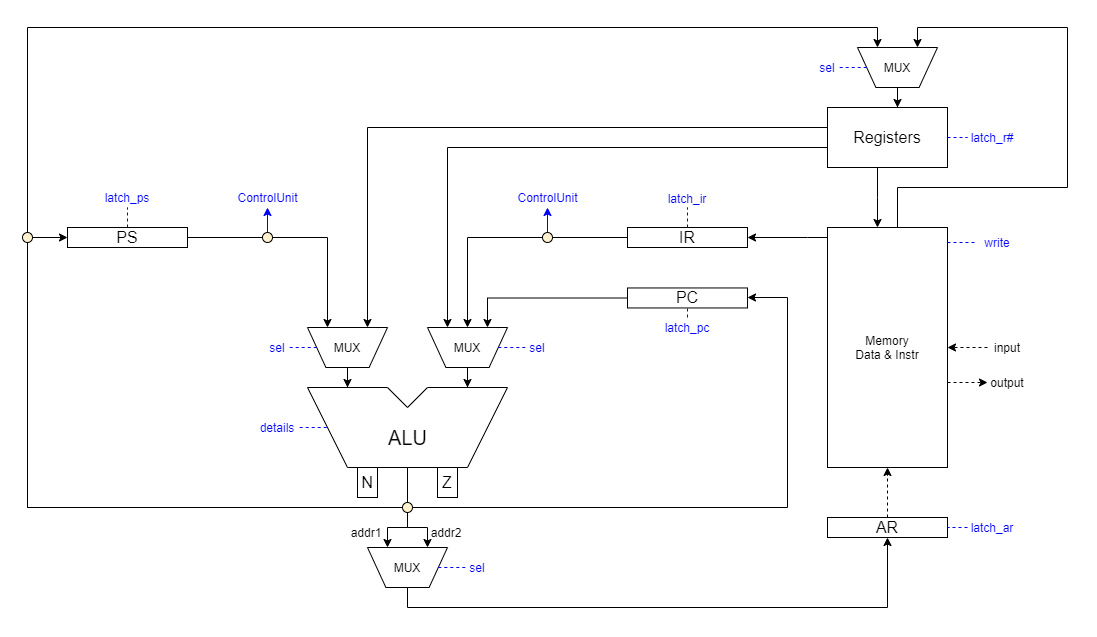
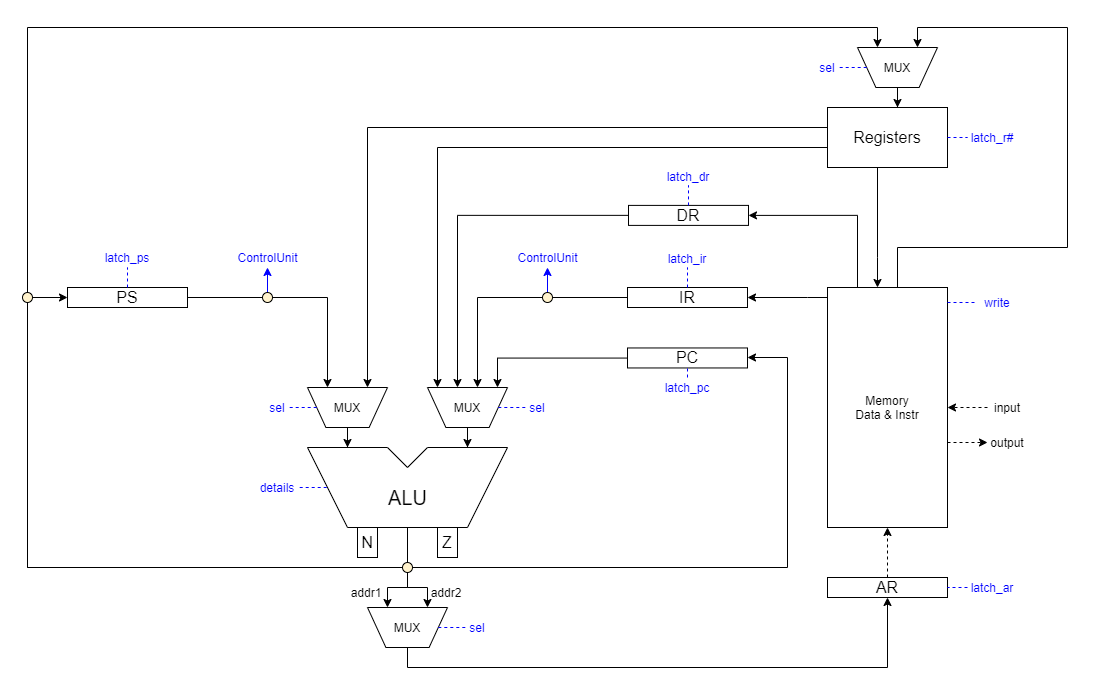
Add DR - регистр данных

diff --git a/README.md b/README.md
@@ -148,6 +148,8 @@ Registers
 +------------------------------------+
 | IR - регистр команды               |
 +------------------------------------+
+| DR - регистр даннных               |
++------------------------------------+
 
 Instruction & Data memory
 +-----------------------------------------------+
@@ -169,8 +171,9 @@ Instruction & Data memory
     - косвенная
 - Размер машинного слова равна **48 бит**:
     - Код команды (0-7) = **8 бит**
-    - Бит косвенной адресации (8) = **1 бит** (0 - прямая адресация, 1 - косвенная адресация)
-    - Зарезервировано (9-15) = **7 бит**
+    - Бит косвенной адресации первого адреса (8) = **1 бит** (0 - прямая адресация, 1 - косвенная адресация)
+    - Бит косвенной адресации второго адреса (9) = **1 бит** (0 - прямая адресация, 1 - косвенная адресация)
+    - Зарезервировано (10-15) = **7 бит**
     - Адрес_1 (16-31) = **16 бит**, следовательно, в памяти **65536 ячеек**
     - Адрес_2 (32-47) = **16 бит**
     - (На практике кодирование команд реализовано через json)
@@ -296,6 +299,7 @@ Instruction & Data memory
 - `ps` - регистр состояния
 - `ar` - адресный регистр
 - `ir` - регистр команды
+- `dr` - регистр данных, нужен при косвенной адресации
 
 Объекты:
 
